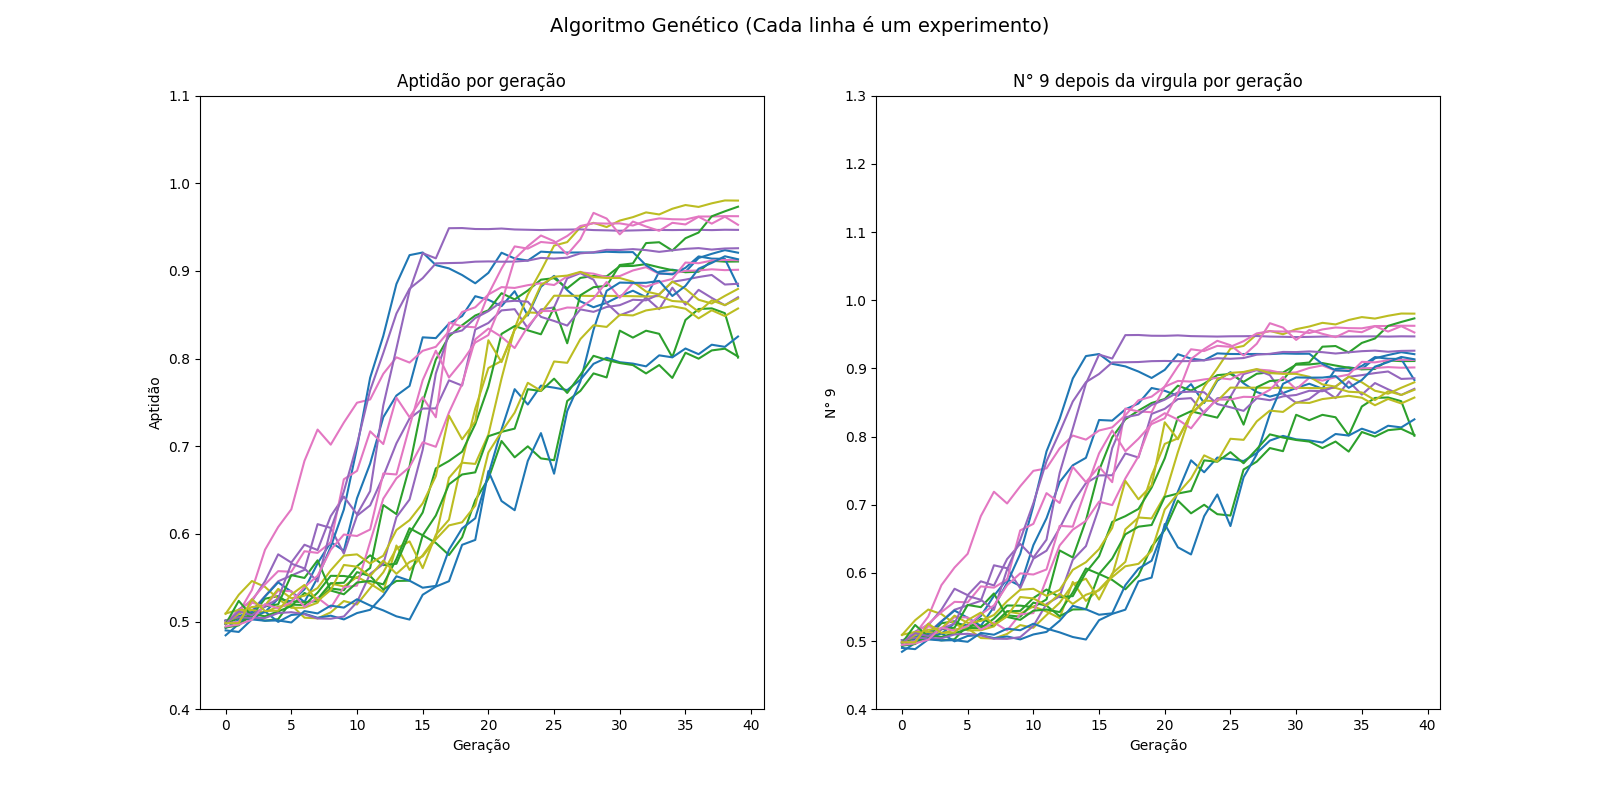
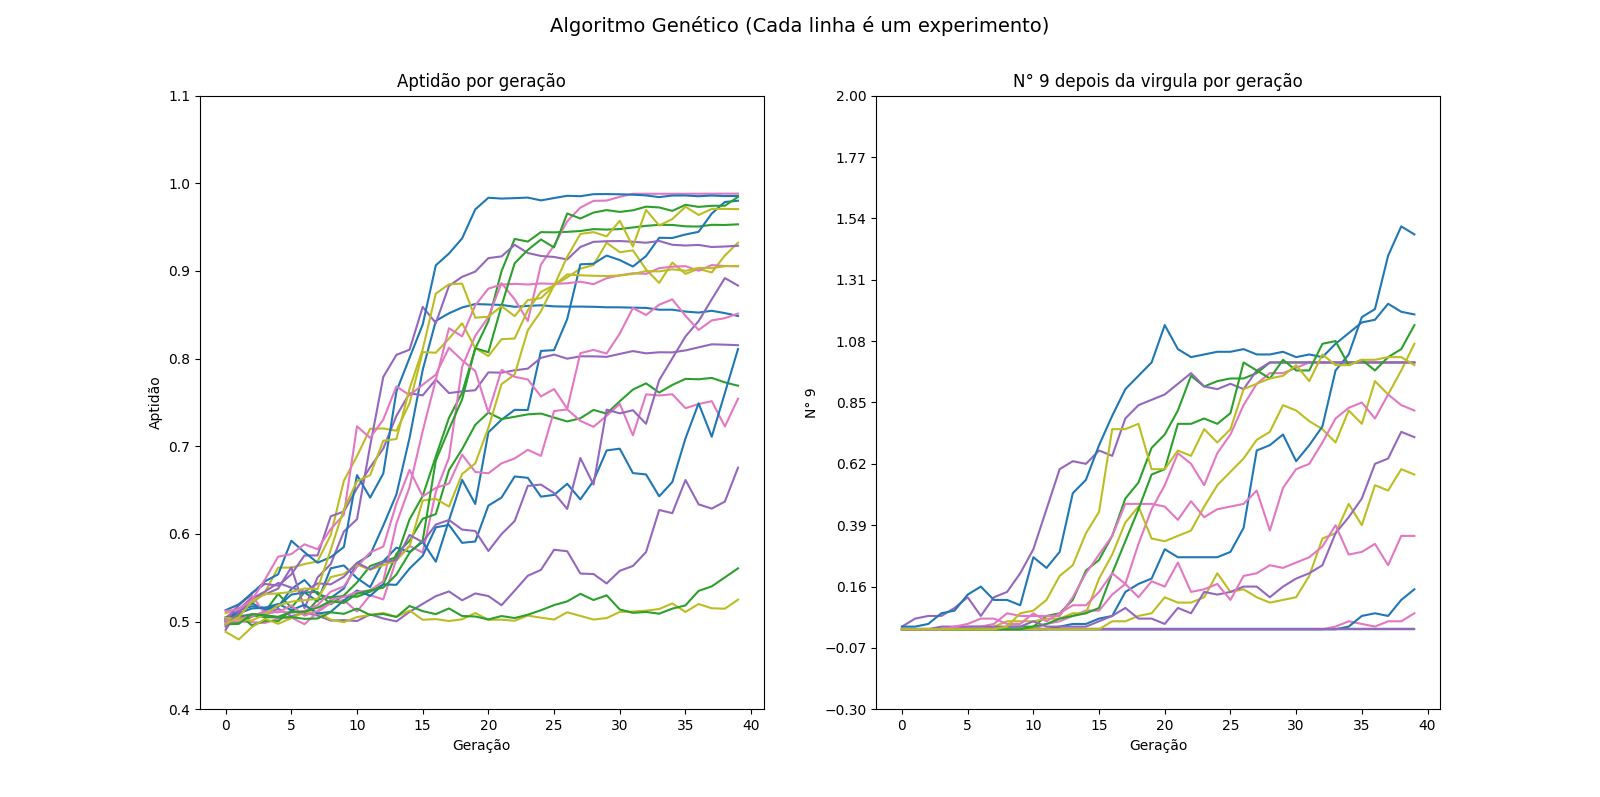
adjustment

diff --git a/Trabalhos/algoritmos-geneticos/main.py b/Trabalhos/algoritmos-geneticos/main.py
@@ -138,7 +138,7 @@ if __name__ == '__main__':
             media_noves = np.mean(noves)
             
             media_aptidao.append(media)
-            media_9.append(media)
+            media_9.append(media_noves)
 
             POPULACAO = roleta(POPULACAO, aptidao)
             
@@ -174,8 +174,9 @@ if __name__ == '__main__':
     ax1.set_ylabel('Aptidão')
     ax1.set_title("Aptidão por geração")
 
-    ax2.set_ylim([0.4, 1.3])
+    ax2.set_ylim([-0.3, 2])
     ax2.set_xlabel('Geração')
     ax2.set_ylabel('N° 9')
+    ax2.set_yticks(np.linspace(-0.3, 2, 11))
     ax2.set_title("N° 9 depois da virgula por geração")
     plt.show()
